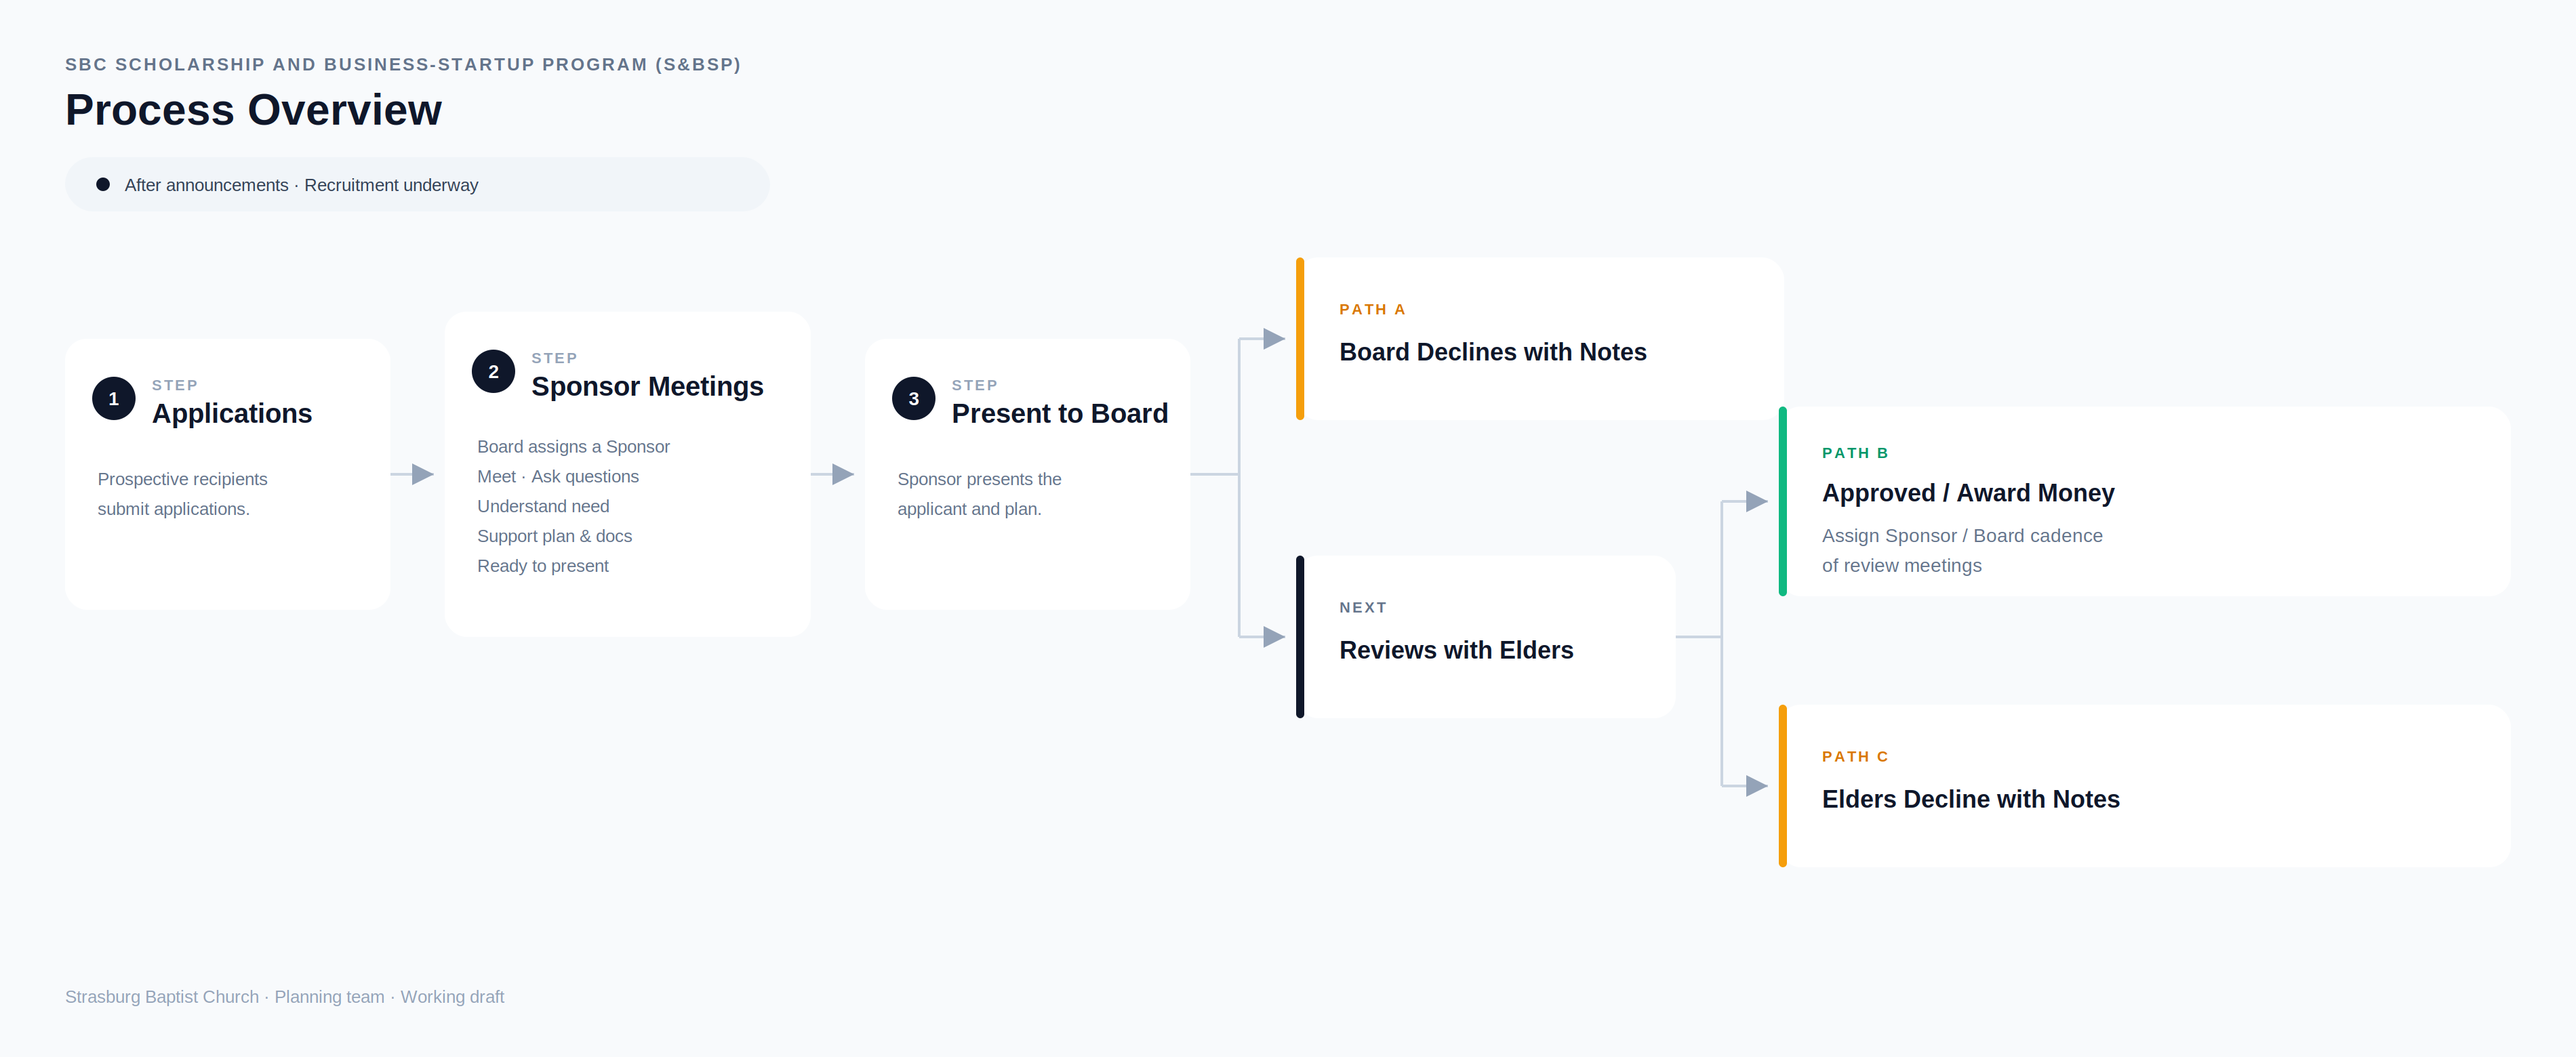
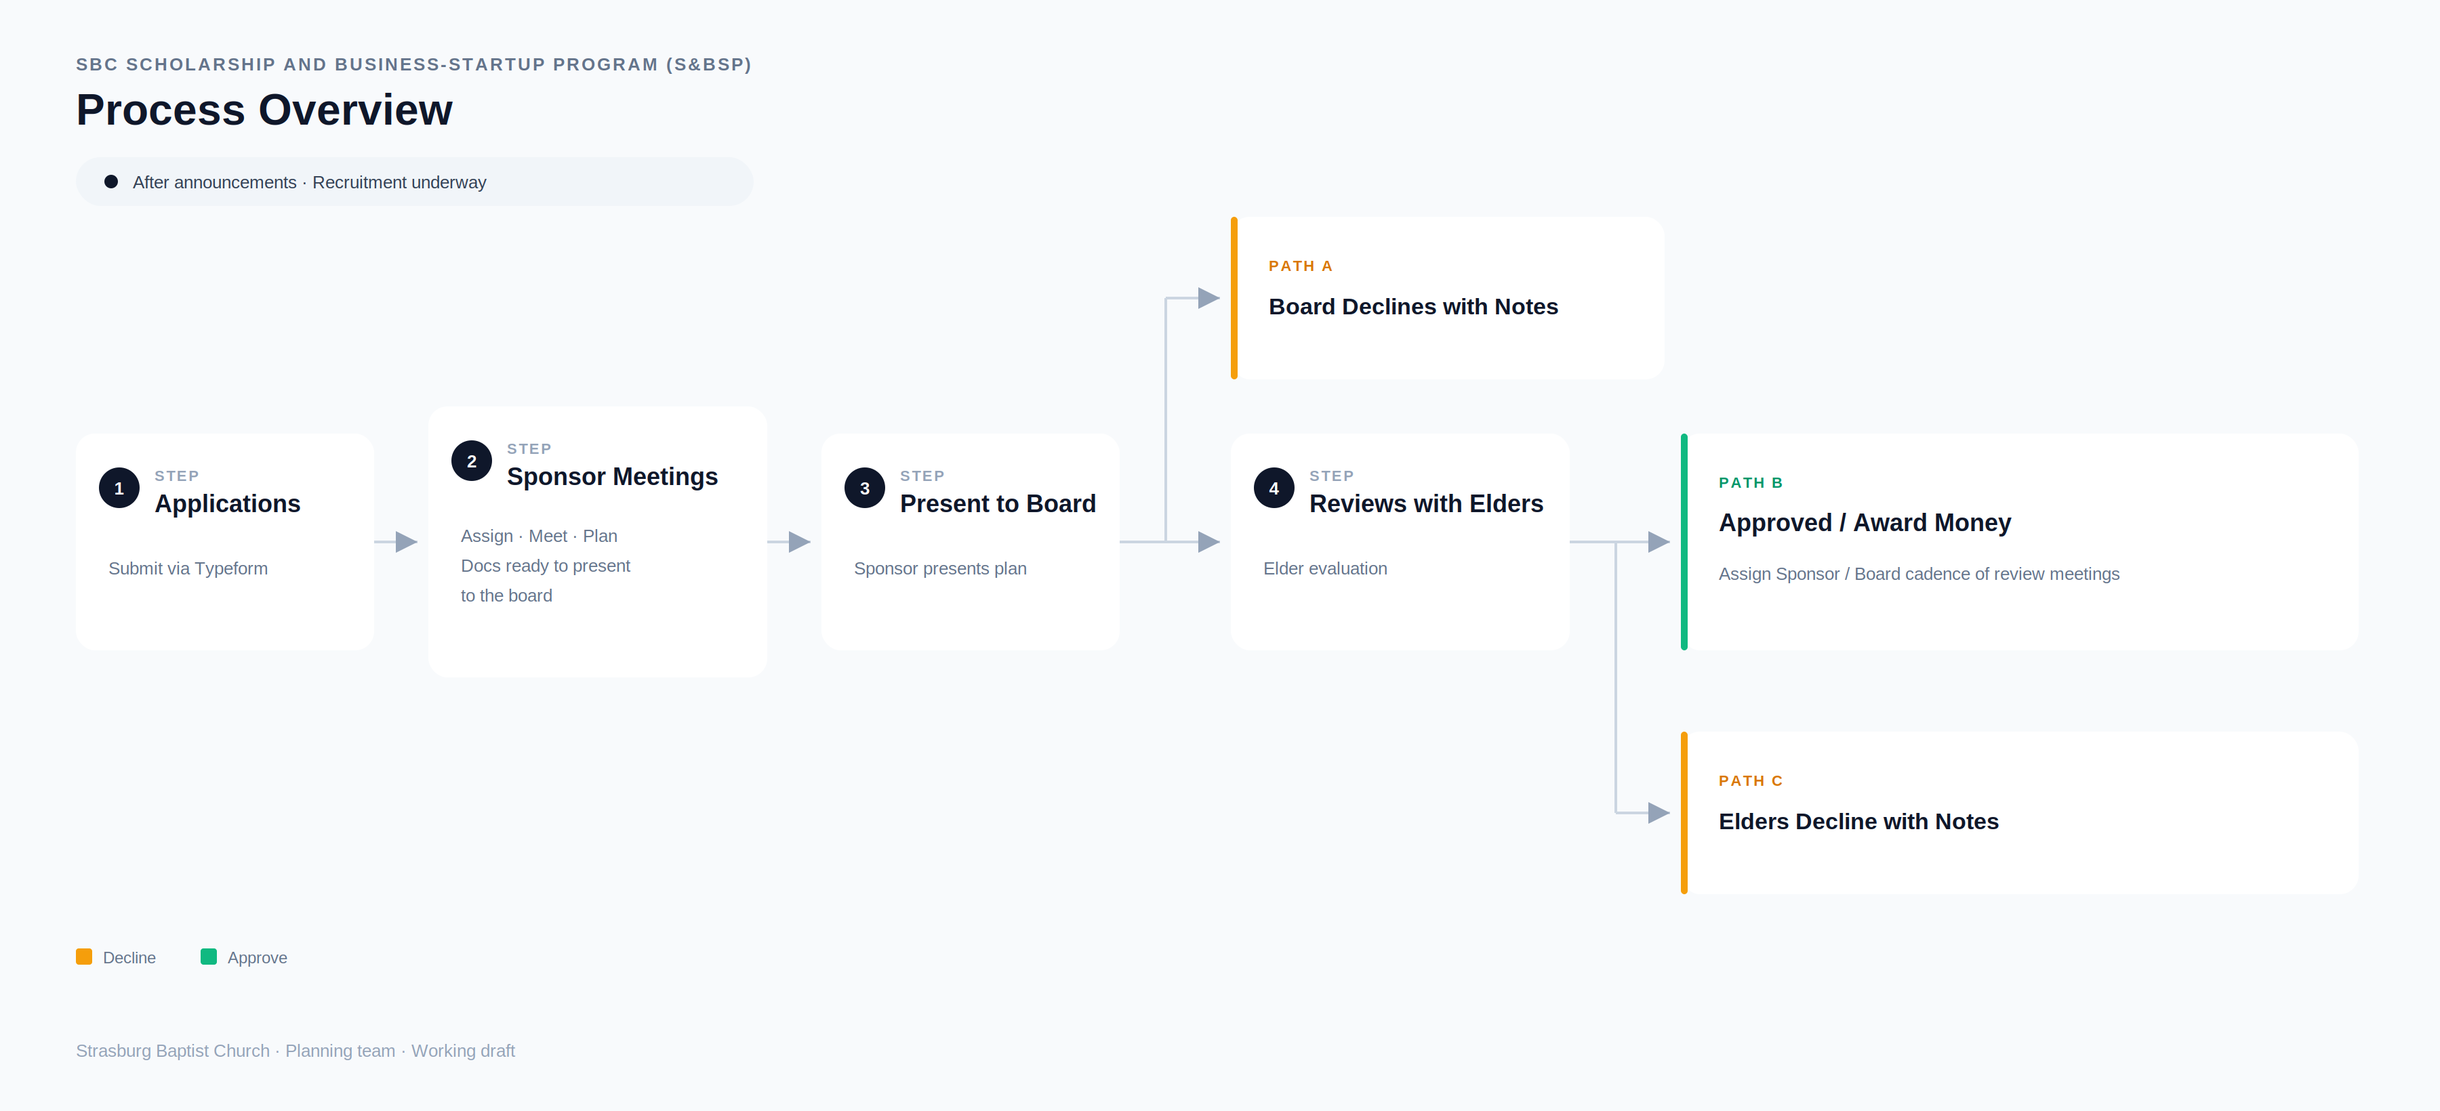
Clarify Process Overview spine and split-path layout.
Keep steps 1–4 on a linear path, with Path A and Path C as side exits and Path B as the forward approve outcome.

diff --git a/notes/process-ceremony-overview.md b/notes/process-ceremony-overview.md
@@ -13,48 +13,43 @@ After **announcements** are made and the **recruitment strategy** has begun.
 
 ## Flow
 
-1. **Applications** — Prospective recipients submit applications via **Typeform**.
-2. **Sponsor meetings** — The board assigns a **Sponsor** (a person from the board) to:
-   - Meet with the applicant
-   - Ask questions and understand the request
-   - Develop a support plan and supporting docs
-   - Prepare the case for board presentation
-3. **Present to board** — Sponsor presents the applicant and support plan to the board.
-4. **Board path** — One of:
-   - **Path A — Board declines with notes** — Board declines and records notes (feedback / rationale)
-   - **Reviews with Elders** — Board takes the case to the Elders for review
-5. **After Elder review** — One of:
-   - **Path B — Approved / award money** — Award funds and assign Sponsor / Board cadence of review meetings
-   - **Path C — Elders decline with notes** — Elders decline and record notes
+Main spine (left → right):
+
+1. **Applications** — Prospective recipients submit via **Typeform**
+2. **Sponsor meetings** — Board assigns a Sponsor; meet, plan, prepare docs
+3. **Present to board** — Sponsor presents the applicant and plan
+4. **Reviews with Elders** — Elder evaluation
+5. **Path B — Approved / award money** — Assign Sponsor / Board cadence of review meetings
+
+Side exits:
+
+- **Path A** (after Present to Board) — Board declines with notes
+- **Path C** (after Reviews with Elders) — Elders decline with notes
 
 ```mermaid
 flowchart LR
-  pre[Announcements and recruitment begun]
-  apps[Applications]
-  sponsor[Sponsor meetings]
-  present[Present to board]
-  pathA[Path A Board declines with notes]
-  elders[Reviews with Elders]
+  apps[1 Applications]
+  sponsor[2 Sponsor Meetings]
+  present[3 Present to Board]
+  elders[4 Reviews with Elders]
   pathB[Path B Approved award and review cadence]
+  pathA[Path A Board declines with notes]
   pathC[Path C Elders decline with notes]
 
-  pre --> apps --> sponsor --> present
+  apps --> sponsor --> present --> elders --> pathB
   present --> pathA
-  present --> elders
-  elders --> pathB
   elders --> pathC
 ```
 
 ## Sponsor role (board member)
 
 - Assigned by the board to a specific applicant
-- Owns discovery: questions, understanding need and path (trade / family craft / college)
+- Owns discovery: questions, understanding need and path
 - Produces support plan and docs ready for board
 - Presents to the board
 - On Path B approval: continues with a cadence of review meetings with the board
 
 ## Open questions
 
-- After a decline with notes (Path A or C): is the applicant/sponsor expected to revise and re-enter, or is that a terminal outcome for the cycle?
-- Timing: how the committee “X week” review from the initial proposal maps onto Sponsor meetings vs. board / Elder stages
-- What the Sponsor / Board review-meeting cadence looks like after award (frequency, duration, reporting)
+- After a decline with notes (Path A or C): revise/re-enter, or terminal for the cycle?
+- What the Sponsor / Board review-meeting cadence looks like after award
